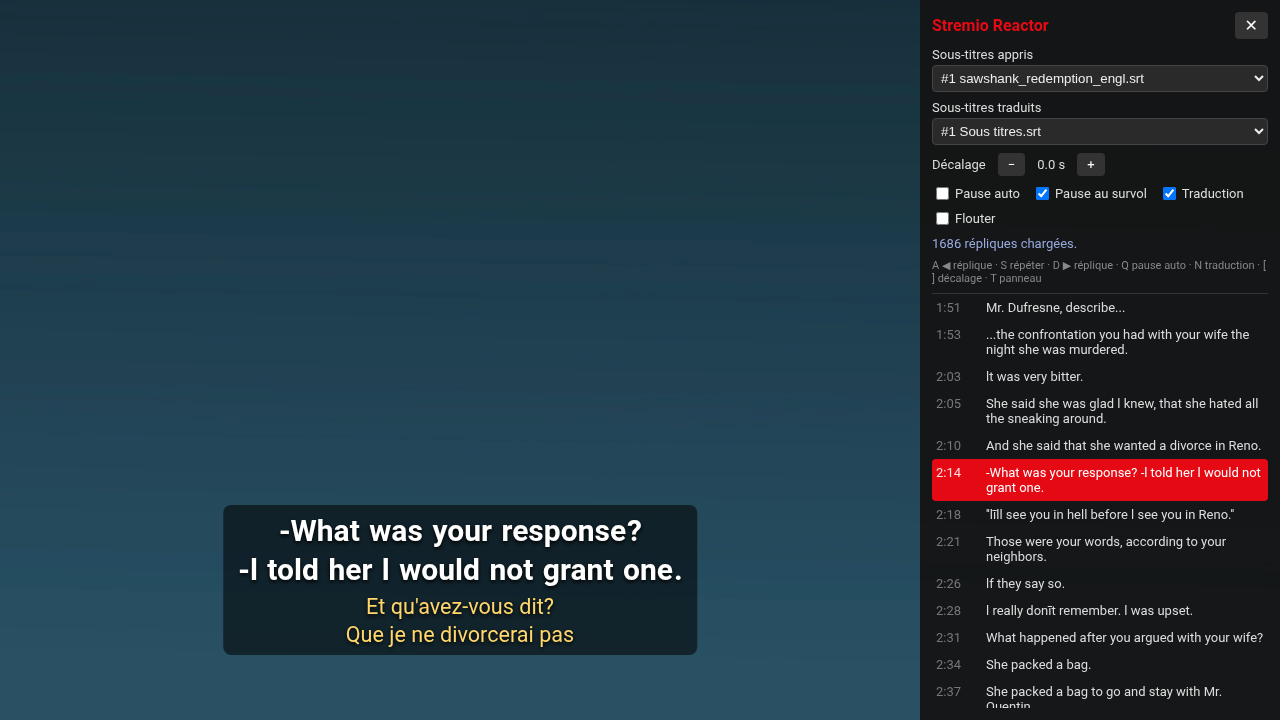
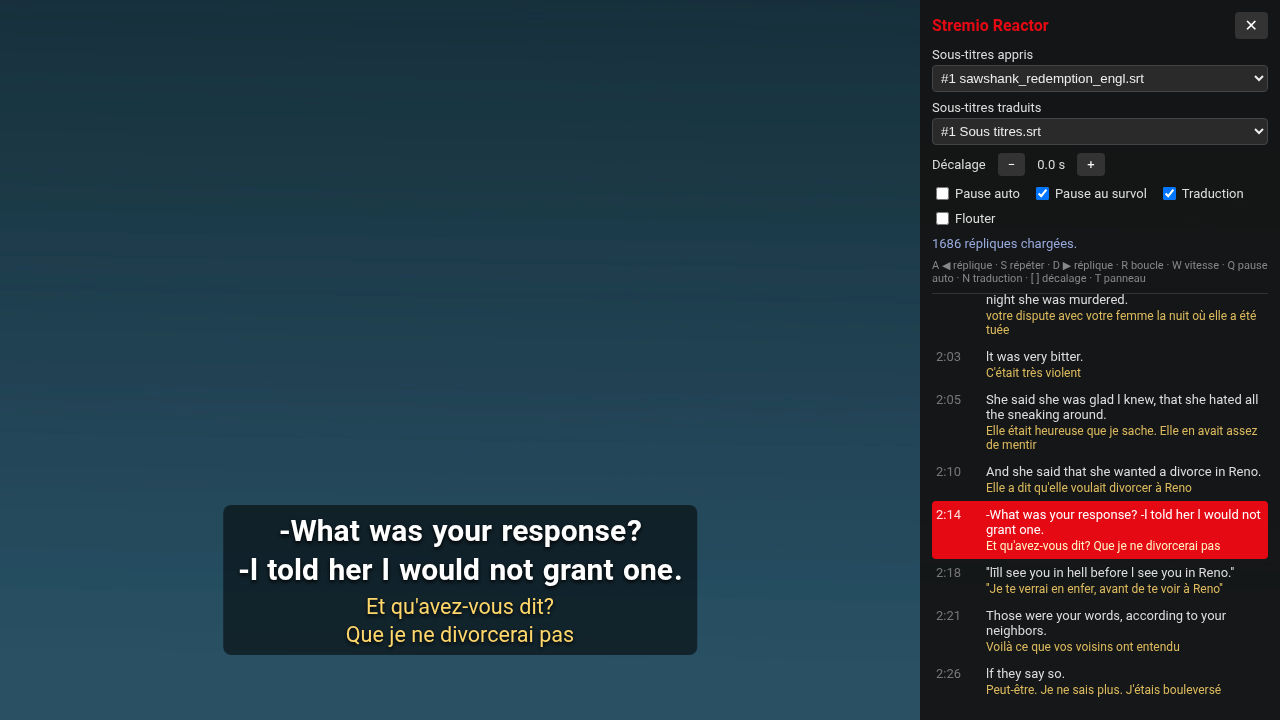
Extension : boucle, vitesse lente, transcript traduit et icônes
- R répète la réplique en boucle, W ralentit la vidéo (×0,85, ×0,7)
- le transcript du panneau affiche la traduction sous chaque réplique
- icônes de l'extension

Changed region(s): [[0.7188, 0.3667, 1.0, 1.0]]

diff --git a/content.js b/content.js
@@ -20,8 +20,11 @@
     hoverPaused: false,
     mt: new Map(),      // index de réplique -> traduction auto
     saved: new Set(),   // mots sauvegardés (minuscules)
-    loadToken: 0
+    loadToken: 0,
+    loopCue: -1,        // réplique répétée en boucle (touche R), -1 = pas de boucle
+    lastLoopSeek: 0
   };
+  const SPEEDS = [1, 0.85, 0.7]; // touche W
 
   // ---------- utilitaires ----------
   function send(msg) {
@@ -318,6 +321,7 @@
     st.mt.clear();
     for (const c of st.cues) c.native = undefined;
     if (i >= 0) align(await st.natTracks[i].load());
+    buildTranscript();
     fillSelects();
     render(true);
   }
@@ -402,7 +406,7 @@
       labeled('Sous-titres appris', el('select', 'sr-sel-tgt')),
       labeled('Sous-titres traduits', el('select', 'sr-sel-nat')),
       offset, checks, el('div', 'sr-status'),
-      el('div', 'sr-keys', 'A ◀ réplique · S répéter · D ▶ réplique · Q pause auto · N traduction · [ ] décalage · T panneau'),
+      el('div', 'sr-keys', 'A ◀ réplique · S répéter · D ▶ réplique · R boucle · W vitesse · Q pause auto · N traduction · [ ] décalage · T panneau'),
       el('div', 'sr-list'));
   }
   const $ = s => panel.querySelector(s);
@@ -454,7 +458,12 @@
     $('.sr-ck-hp').checked = S.hoverPause;
     $('.sr-ck-nat').checked = S.showNative;
     $('.sr-ck-blur').checked = S.blurNative;
-    badge.textContent = S.autoPause ? 'pause auto' : '';
+    const rate = st.video ? st.video.playbackRate : 1;
+    badge.textContent = [
+      S.autoPause && 'pause auto',
+      st.loopCue >= 0 && 'boucle',
+      rate !== 1 && '×' + rate
+    ].filter(Boolean).join(' · ');
   }
 
   function shiftOffset(d) {
@@ -474,7 +483,9 @@
     list.replaceChildren();
     st.cues.forEach((c, i) => {
       const row = el('div', 'sr-line');
-      row.append(el('span', 'sr-time', fmtTime(c.start)), el('span', null, c.text.replace(/\n/g, ' ')));
+      const body = el('span', null, c.text.replace(/\n/g, ' '));
+      if (c.native) body.append(el('small', 'sr-line-nat', c.native.replace(/\n/g, ' ')));
+      row.append(el('span', 'sr-time', fmtTime(c.start)), body);
       row.onclick = () => seekCue(i);
       list.append(row);
     });
@@ -606,6 +617,12 @@
   function nextCue() { seekCue(lastStarted(curTime()) + 1); }
   function replayCue() { seekCue(st.cur >= 0 ? st.cur : lastStarted(curTime())); }
 
+  function toggleLoop() {
+    if (st.loopCue >= 0) st.loopCue = -1;
+    else st.loopCue = st.cur >= 0 ? st.cur : lastStarted(curTime());
+    flash(st.loopCue >= 0 ? 'Boucle sur la réplique' : 'Boucle désactivée');
+  }
+
   function togglePanel() {
     panel.hidden = !panel.hidden;
     if (!panel.hidden) render();
@@ -620,6 +637,12 @@
       q: () => { setSetting('autoPause', !S.autoPause); flash(S.autoPause ? 'Pause auto activée' : 'Pause auto désactivée'); },
       n: () => setSetting('showNative', !S.showNative),
       t: togglePanel,
+      r: toggleLoop,
+      w: () => {
+        const v = st.video;
+        v.playbackRate = SPEEDS[(SPEEDS.indexOf(v.playbackRate) + 1) % SPEEDS.length];
+        flash('Vitesse ×' + v.playbackRate);
+      },
       '[': () => shiftOffset(-0.25),
       ']': () => shiftOffset(0.25),
       Escape: hidePop
@@ -639,6 +662,15 @@
     if (!v || !st.cues.length) return;
     place(v);
     const t = curTime();
+    // boucle : revenir au début de la réplique dès qu'elle se termine (ou si on en sort)
+    if (st.loopCue >= 0 && !v.paused && Date.now() - st.lastLoopSeek > 600) {
+      const c = st.cues[st.loopCue];
+      if (c && (t >= c.end || t < c.start - 1)) {
+        st.lastLoopSeek = Date.now();
+        seekCue(st.loopCue);
+        return;
+      }
+    }
     if (S.autoPause && !v.paused && st.cur >= 0 && st.pausedAtCue !== st.cur &&
         t >= st.cues[st.cur].end - 0.08) {
       st.pausedAtCue = st.cur;

diff --git a/content.css b/content.css
@@ -77,5 +77,7 @@ html.sr-on .player-timedtext { display: none !important; }
 .sr-line { padding: 6px 4px; cursor: pointer; border-radius: 4px; display: flex; gap: 8px; }
 .sr-line:hover { background: #2a2a2a; }
 .sr-line.sr-active { background: #e50914; color: #fff; }
+.sr-line-nat { display: block; color: #ffd76a; opacity: .85; font-size: 12px; margin-top: 2px; }
+.sr-active .sr-line-nat { color: #fff3c4; opacity: 1; }
 .sr-time { color: #777; min-width: 42px; font-variant-numeric: tabular-nums; }
 .sr-active .sr-time { color: #fdd; }

diff --git a/README.md b/README.md
@@ -17,7 +17,7 @@ Langues : anglais, français, espagnol, allemand, italien, portugais, arabe, rus
 
 ![Bulle de traduction d'un mot](docs/extension-mot.png)
 
-**Extension** : panneau avec choix des pistes, réglages et transcript cliquable (touche T).
+**Extension** : panneau avec choix des pistes, réglages et transcript cliquable avec traductions (touche T).
 
 ![Panneau transcript](docs/extension-panneau.png)
 
@@ -54,6 +54,8 @@ Pour lire les torrents et les fichiers MKV dans le navigateur, Stremio Web a bes
 |---|---|
 | A / D | réplique précédente / suivante |
 | S | répéter la réplique |
+| R | répéter la réplique en boucle (R à nouveau pour arrêter) |
+| W | vitesse : ×1 → ×0,85 → ×0,7 |
 | Q | activer ou désactiver la pause auto |
 | N | afficher ou masquer la traduction |
 | [ / ] | décaler les sous-titres de −/+ 0,25 s |
